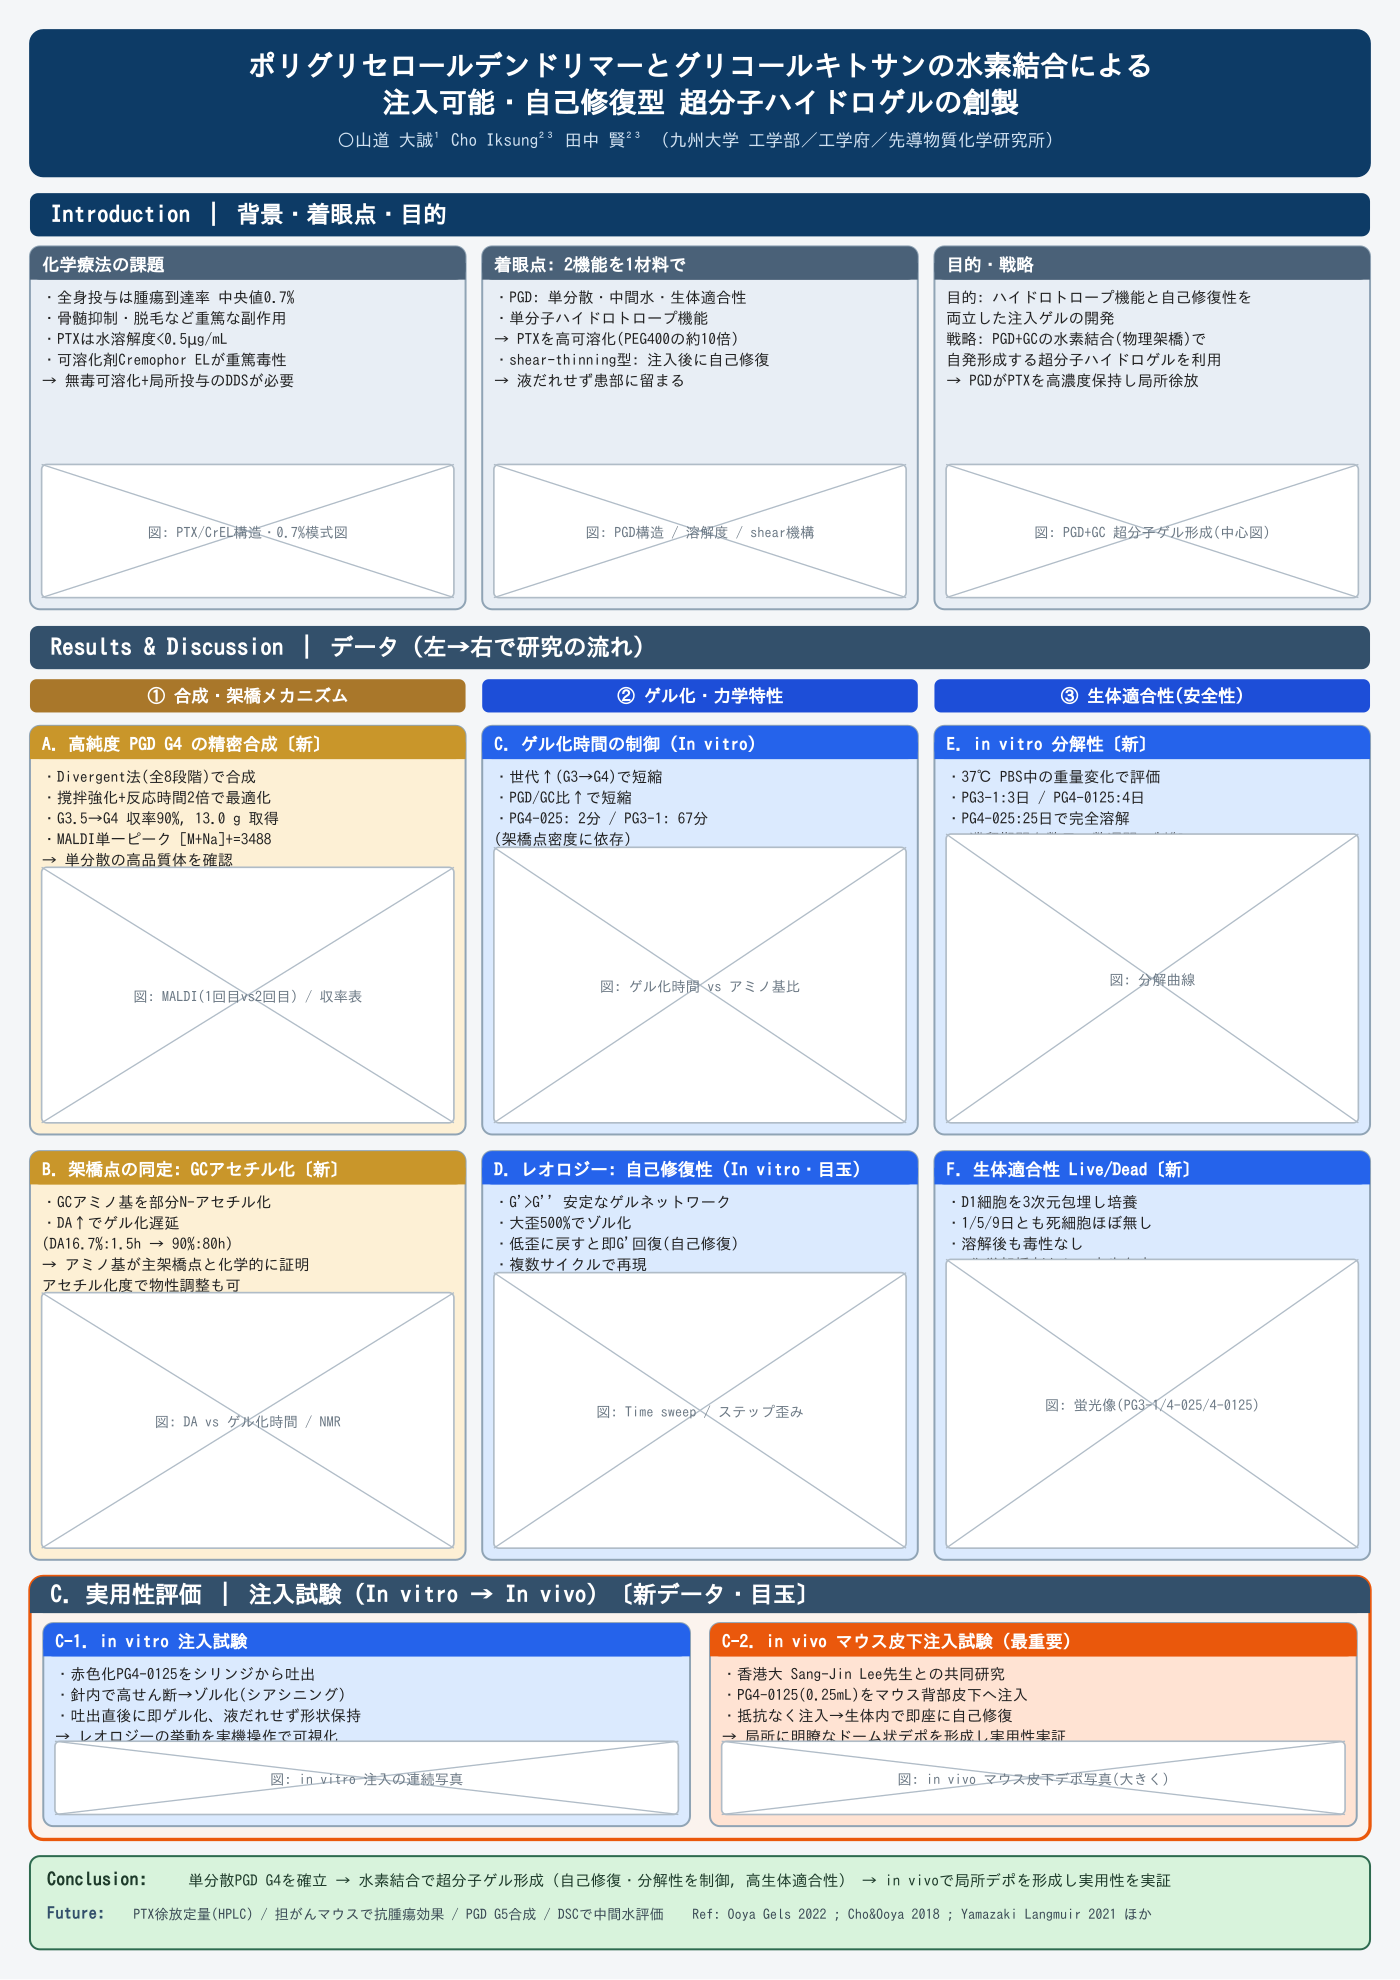
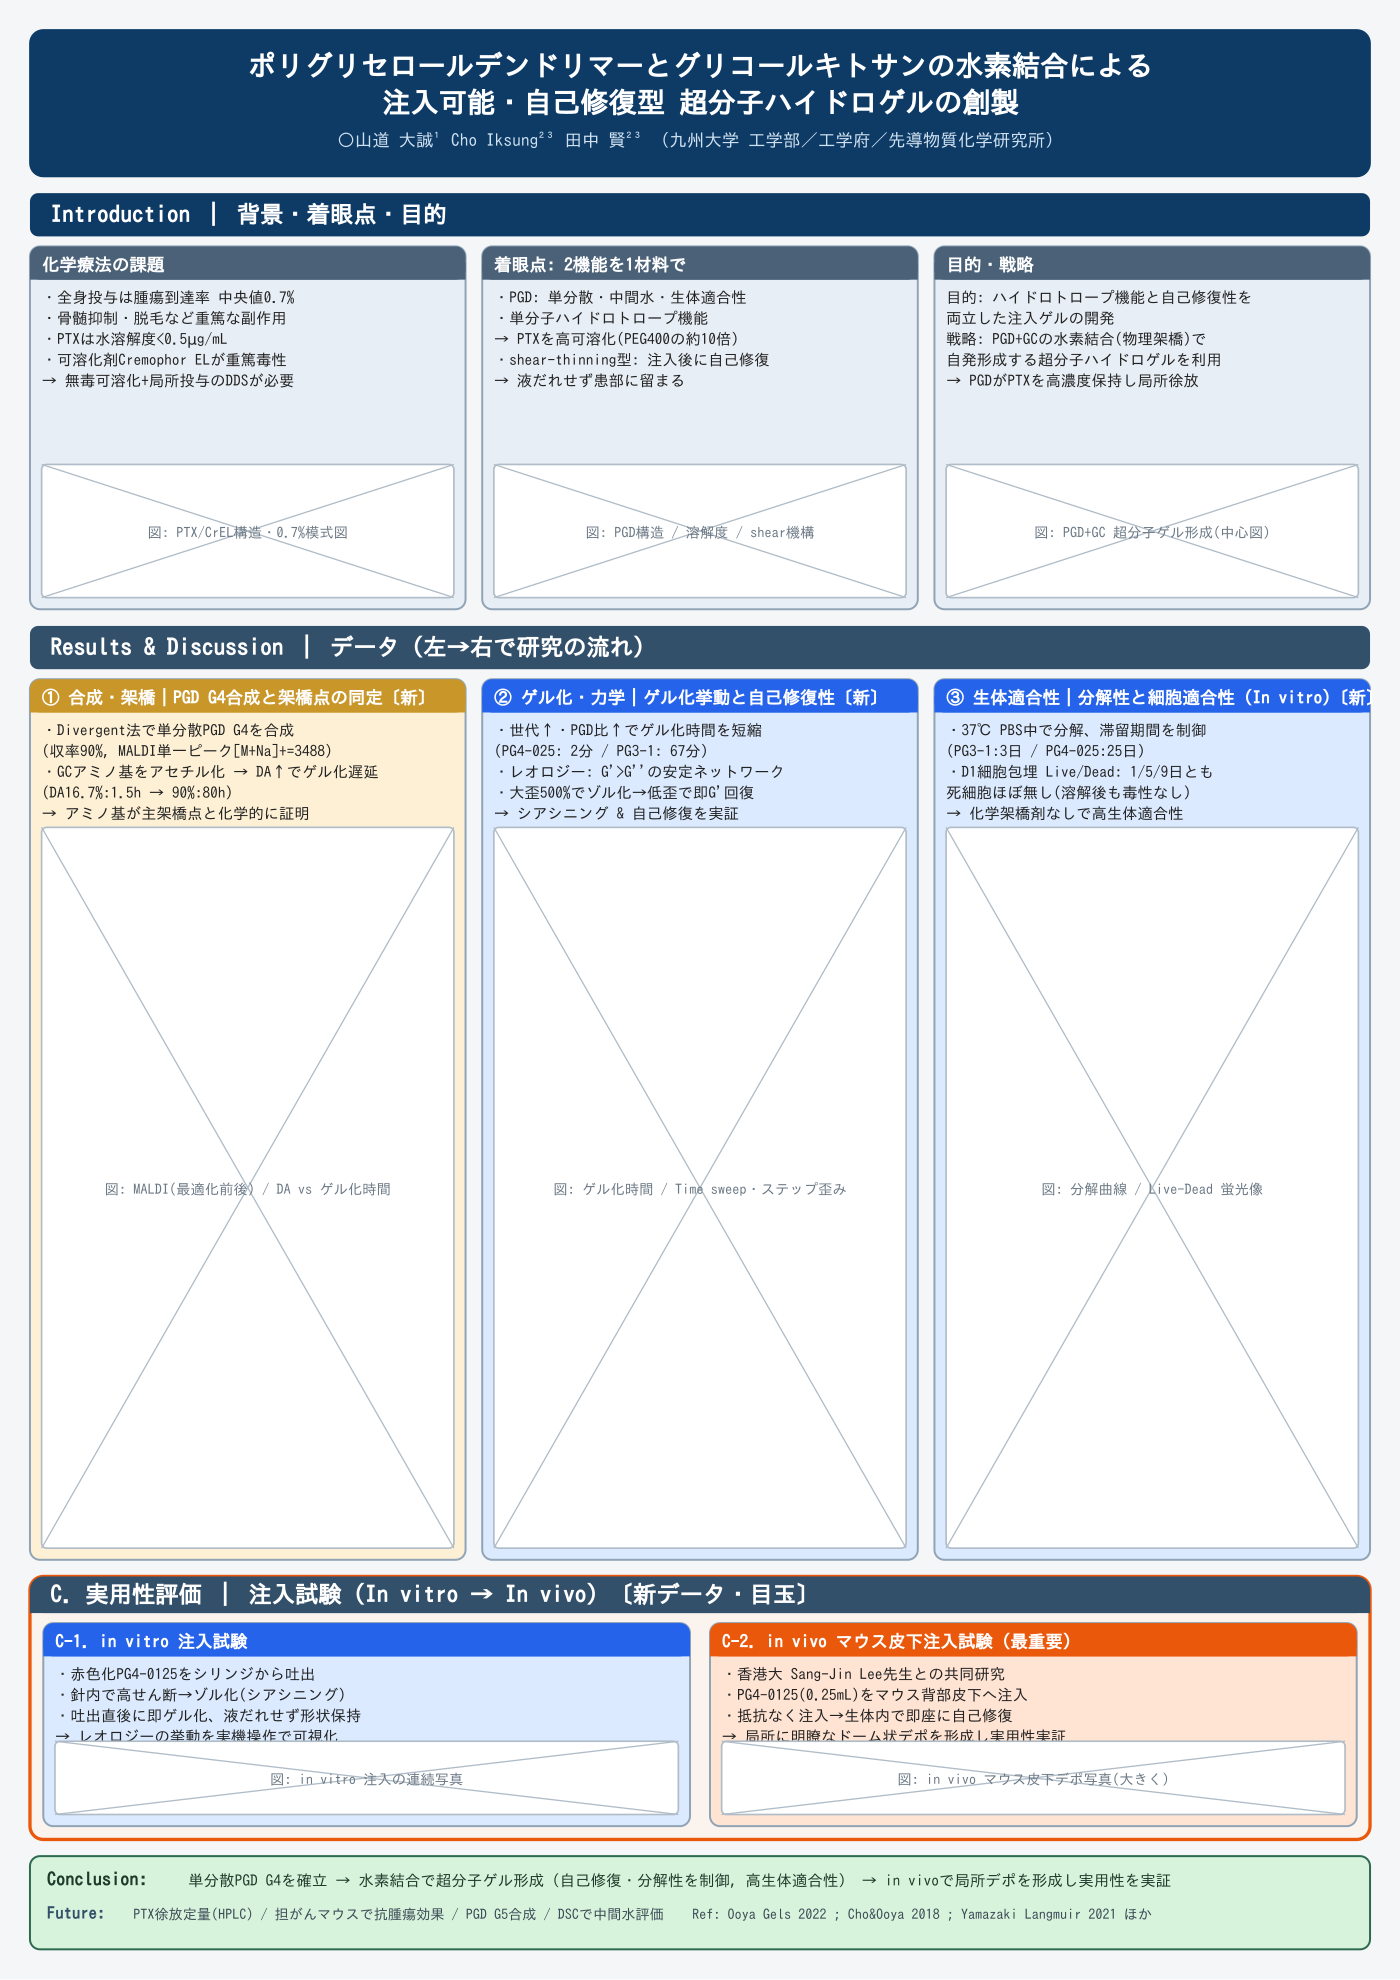
パネル数を削減し窮屈さを解消
データ部を6枚→3枚に統合(①合成+架橋 ②ゲル化+自己修復 ③分解性+生体適合性)。
テーマ色帯を廃止しタイトルに①②③を統合、二重バーを解消。
各パネルに大きな図枠と余白を確保。mockup・pptx両方を更新。

https://claude.ai/code/session_01KuqqzALcpZUj35jC8BQaFN

diff --git a/poster/make_pptx.py b/poster/make_pptx.py
@@ -171,64 +171,38 @@ inj_y = conc_y - gap - band_inject_h
 colw = (cw - 2*gap) / 3
 dx0 = M; dx1 = M + colw + gap; dx2 = M + 2*(colw+gap)
 
-# テーマ小見出し
-theme_y = ry + 14
-theme_h = 11
-def themebar(x, label, color):
-    box(x, theme_y, colw, theme_h, color, line=None, rounded=False)
-    textbox(x, theme_y, colw, theme_h, [(label, 15, C_WHITE, True)],
-            align=PP_ALIGN.CENTER, anchor=MSO_ANCHOR.MIDDLE)
-themebar(dx0, "① 合成・架橋メカニズム", C_MAT_BAR)
-themebar(dx1, "② ゲル化・力学特性", C_VITRO_BAR)
-themebar(dx2, "③ 生体適合性(安全性)", C_VITRO_BAR)
-
-data_y = theme_y + theme_h + 4
+data_y = ry + 14
 data_h = inj_y - gap - data_y
 
-# Col1: 合成・架橋メカニズム
-p1 = (data_h - gap) / 2
-panel(dx0, data_y, colw, p1, "A. 高純度 PGD G4 の精密合成〔新〕",
-      ["・Divergent法(全8段階)で合成",
-       "・撹拌強化＋反応時間2倍で最適化",
-       "・G3.5→G4 収率90%, 13.0 g 取得",
-       "・MALDI 単一ピーク [M+Na]⁺=3488",
-       "  → 単分散の高品質体を確認"],
-      C_MAT, C_MAT_BAR, fig_caption="図: MALDI(1回目 vs 2回目) / 収率表", fig_h=p1-58)
-panel(dx0, data_y+p1+gap, colw, p1, "B. 架橋点の同定: GCアセチル化〔新〕",
-      ["・GCアミノ基を部分N-アセチル化",
-       "・DA↑でゲル化遅延",
+# 各列1枚に統合(計3枚)。本文を要点に絞り、図を大きく
+fig_h = data_h - 52
+
+# Col1: ① 合成・架橋メカニズム
+panel(dx0, data_y, colw, data_h, "① 合成・架橋｜PGD G4合成と架橋点の同定〔新〕",
+      ["・Divergent法で単分散PGD G4を合成",
+       "  (収率90%, MALDI単一ピーク [M+Na]⁺=3488)",
+       "・GCアミノ基をアセチル化 → DA↑でゲル化遅延",
        "  (DA 16.7%:1.5h → 90%:80h)",
-       "→ アミノ基が主架橋点と化学的に証明",
-       "  アセチル化度で物性調整も可"],
-      C_MAT, C_MAT_BAR, fig_caption="図: DA vs ゲル化時間 / NMR", fig_h=p1-58)
+       "→ アミノ基が主架橋点と化学的に証明"],
+      C_MAT, C_MAT_BAR, fig_caption="図: MALDI(最適化前後) / DA vs ゲル化時間", fig_h=fig_h)
 
-# Col2: ゲル化・力学特性
-panel(dx1, data_y, colw, p1, "C. ゲル化時間の制御 (In vitro)",
-      ["・世代↑(G3→G4)で短縮",
-       "・PGD/GC比↑で短縮",
-       "・PG4-025: 2分 / PG3-1: 67分",
-       "  (架橋点密度に依存)"],
-      C_VITRO, C_VITRO_BAR, fig_caption="図: ゲル化時間 vs アミノ基比", fig_h=p1-50)
-panel(dx1, data_y+p1+gap, colw, p1, "D. レオロジー: 自己修復性 (目玉)",
-      ["・G′>G″ 安定なゲルネットワーク",
-       "・大歪500%でゾル化",
-       "・低歪に戻すと即 G′回復(自己修復)",
-       "・複数サイクルで再現"],
-      C_VITRO, C_VITRO_BAR, fig_caption="図: Time sweep / ステップ歪み", fig_h=p1-50)
+# Col2: ② ゲル化・力学特性
+panel(dx1, data_y, colw, data_h, "② ゲル化・力学｜ゲル化挙動と自己修復性〔新〕",
+      ["・世代↑・PGD比↑でゲル化時間を短縮",
+       "  (PG4-025: 2分 / PG3-1: 67分)",
+       "・レオロジー: G′>G″ の安定ネットワーク",
+       "・大歪500%でゾル化 → 低歪で即 G′回復",
+       "→ シアシニング & 自己修復を実証"],
+      C_VITRO, C_VITRO_BAR, fig_caption="図: ゲル化時間 / Time sweep・ステップ歪み", fig_h=fig_h)
 
-# Col3: 生体適合性(分解性→安全性)
-panel(dx2, data_y, colw, p1, "E. in vitro 分解性〔新〕",
-      ["・37℃ PBS中の重量変化で評価",
-       "・PG3-1:3日 / PG4-0125:4日",
-       "・PG4-025:25日で完全溶解",
-       "→ 滞留期間を数日〜数週間で制御"],
-      C_VITRO, C_VITRO_BAR, fig_caption="図: 分解曲線", fig_h=p1-50)
-panel(dx2, data_y+p1+gap, colw, p1, "F. 生体適合性 Live/Dead〔新〕",
-      ["・D1細胞を3次元包埋し培養",
-       "・1/5/9日とも死細胞ほぼ無し",
-       "・溶解後も毒性なし",
-       "→ 化学架橋剤なしで高生存率"],
-      C_VITRO, C_VITRO_BAR, fig_caption="図: 蛍光像(PG3-1/4-025/4-0125)", fig_h=p1-50)
+# Col3: ③ 生体適合性
+panel(dx2, data_y, colw, data_h, "③ 生体適合性｜分解性と細胞適合性 (In vitro)〔新〕",
+      ["・37℃ PBS中で分解、滞留期間を制御",
+       "  (PG3-1:3日 / PG4-025:25日)",
+       "・D1細胞包埋 Live/Dead: 1/5/9日とも",
+       "  死細胞ほぼ無し(溶解後も毒性なし)",
+       "→ 化学架橋剤なしで高い生体適合性"],
+      C_VITRO, C_VITRO_BAR, fig_caption="図: 分解曲線 / Live-Dead 蛍光像", fig_h=fig_h)
 
 # --- C. 実用性評価: 注入試験(全幅・独立帯, In vitro→In vivo)---
 box(M, inj_y, cw, band_inject_h, RGBColor(0xfb,0xf3,0xee), line=C_VIVO_BAR, line_w=2.0)

diff --git a/poster/make_mockup.py b/poster/make_mockup.py
@@ -121,65 +121,39 @@ dx0 = cx
 dx1 = cx + colw + gap
 dx2 = cx + 2*(colw + gap)
 
-# 各列にテーマ小見出し(流れを明示)
-theme_y = ry + 32
-theme_h = 20
-def themebar(x, label, color):
-    add(f'<rect x="{x}" y="{theme_y}" width="{colw}" height="{theme_h}" rx="4" fill="{color}"/>')
-    text(x+colw/2, theme_y+14, label, size=10.5, color="#ffffff", weight="bold", anchor="middle")
-themebar(dx0, "① 合成・架橋メカニズム", "#a9772a")
-themebar(dx1, "② ゲル化・力学特性", "#1d4ed8")
-themebar(dx2, "③ 生体適合性(安全性)", "#1d4ed8")
-
-data_y = theme_y + theme_h + 8
+data_y = ry + 32
 data_bottom = inj_y - gap
 data_h = data_bottom - data_y
 
-# --- Col1: 合成・架橋メカニズム(合成チック系)---
-p1 = (data_h - gap) / 2
-panel(dx0, data_y, colw, p1, "A. 高純度 PGD G4 の精密合成〔新〕",
-      ["・Divergent法(全8段階)で合成",
-       "・撹拌強化+反応時間2倍で最適化",
-       "・G3.5→G4 収率90%, 13.0 g 取得",
-       "・MALDI単一ピーク [M+Na]+=3488",
-       "  → 単分散の高品質体を確認"],
-      C_MAT, bar="#c9962a", fig="図: MALDI(1回目vs2回目) / 収率表", fig_h=p1-92)
-panel(dx0, data_y+p1+gap, colw, p1, "B. 架橋点の同定: GCアセチル化〔新〕",
-      ["・GCアミノ基を部分N-アセチル化",
-       "・DA↑でゲル化遅延",
+# --- 各列1枚に統合(計3枚)。余白を確保しつつ図を大きく ---
+fig_h = data_h - 96  # 本文(箇条書き)以外を図枠に
+
+# Col1: ① 合成・架橋メカニズム
+panel(dx0, data_y, colw, data_h, "① 合成・架橋｜PGD G4合成と架橋点の同定〔新〕",
+      ["・Divergent法で単分散PGD G4を合成",
+       "  (収率90%, MALDI単一ピーク[M+Na]+=3488)",
+       "・GCアミノ基をアセチル化 → DA↑でゲル化遅延",
        "  (DA16.7%:1.5h → 90%:80h)",
-       "→ アミノ基が主架橋点と化学的に証明",
-       "  アセチル化度で物性調整も可"],
-      C_MAT, bar="#c9962a", fig="図: DA vs ゲル化時間 / NMR", fig_h=p1-92)
+       "→ アミノ基が主架橋点と化学的に証明"],
+      C_MAT, bar="#c9962a", fig="図: MALDI(最適化前後) / DA vs ゲル化時間", fig_h=fig_h)
 
-# --- Col2: ゲル化・力学特性(レオロジー系)---
-panel(dx1, data_y, colw, p1, "C. ゲル化時間の制御 (In vitro)",
-      ["・世代↑(G3→G4)で短縮",
-       "・PGD/GC比↑で短縮",
-       "・PG4-025: 2分 / PG3-1: 67分",
-       "  (架橋点密度に依存)"],
-      C_VITRO, bar=C_VITRO_BAR, fig="図: ゲル化時間 vs アミノ基比", fig_h=p1-80)
-panel(dx1, data_y+p1+gap, colw, p1, "D. レオロジー: 自己修復性 (In vitro・目玉)",
-      ["・G'>G'' 安定なゲルネットワーク",
-       "・大歪500%でゾル化",
-       "・低歪に戻すと即G'回復(自己修復)",
-       "・複数サイクルで再現"],
-      C_VITRO, bar=C_VITRO_BAR, fig="図: Time sweep / ステップ歪み", fig_h=p1-80)
+# Col2: ② ゲル化・力学特性
+panel(dx1, data_y, colw, data_h, "② ゲル化・力学｜ゲル化挙動と自己修復性〔新〕",
+      ["・世代↑・PGD比↑でゲル化時間を短縮",
+       "  (PG4-025: 2分 / PG3-1: 67分)",
+       "・レオロジー: G'>G''の安定ネットワーク",
+       "・大歪500%でゾル化→低歪で即G'回復",
+       "→ シアシニング & 自己修復を実証"],
+      C_VITRO, bar=C_VITRO_BAR, fig="図: ゲル化時間 / Time sweep・ステップ歪み", fig_h=fig_h)
 
-# --- Col3: 生体適合性(分解性→安全性)---
-p1 = (data_h - gap) / 2
-panel(dx2, data_y, colw, p1, "E. in vitro 分解性〔新〕",
-      ["・37℃ PBS中の重量変化で評価",
-       "・PG3-1:3日 / PG4-0125:4日",
-       "・PG4-025:25日で完全溶解",
-       "→ 滞留期間を数日〜数週間で制御"],
-      C_VITRO, bar=C_VITRO_BAR, fig="図: 分解曲線", fig_h=p1-72)
-panel(dx2, data_y+p1+gap, colw, p1, "F. 生体適合性 Live/Dead〔新〕",
-      ["・D1細胞を3次元包埋し培養",
-       "・1/5/9日とも死細胞ほぼ無し",
-       "・溶解後も毒性なし",
-       "→ 化学架橋剤なしで高生存率"],
-      C_VITRO, bar=C_VITRO_BAR, fig="図: 蛍光像(PG3-1/4-025/4-0125)", fig_h=p1-72)
+# Col3: ③ 生体適合性
+panel(dx2, data_y, colw, data_h, "③ 生体適合性｜分解性と細胞適合性 (In vitro)〔新〕",
+      ["・37℃ PBS中で分解、滞留期間を制御",
+       "  (PG3-1:3日 / PG4-025:25日)",
+       "・D1細胞包埋 Live/Dead: 1/5/9日とも",
+       "  死細胞ほぼ無し(溶解後も毒性なし)",
+       "→ 化学架橋剤なしで高生体適合性"],
+      C_VITRO, bar=C_VITRO_BAR, fig="図: 分解曲線 / Live-Dead 蛍光像", fig_h=fig_h)
 
 # ===== C. 実用性評価: 注入試験(全幅・独立帯)=====
 # 外枠 + 全幅ヘッダー
